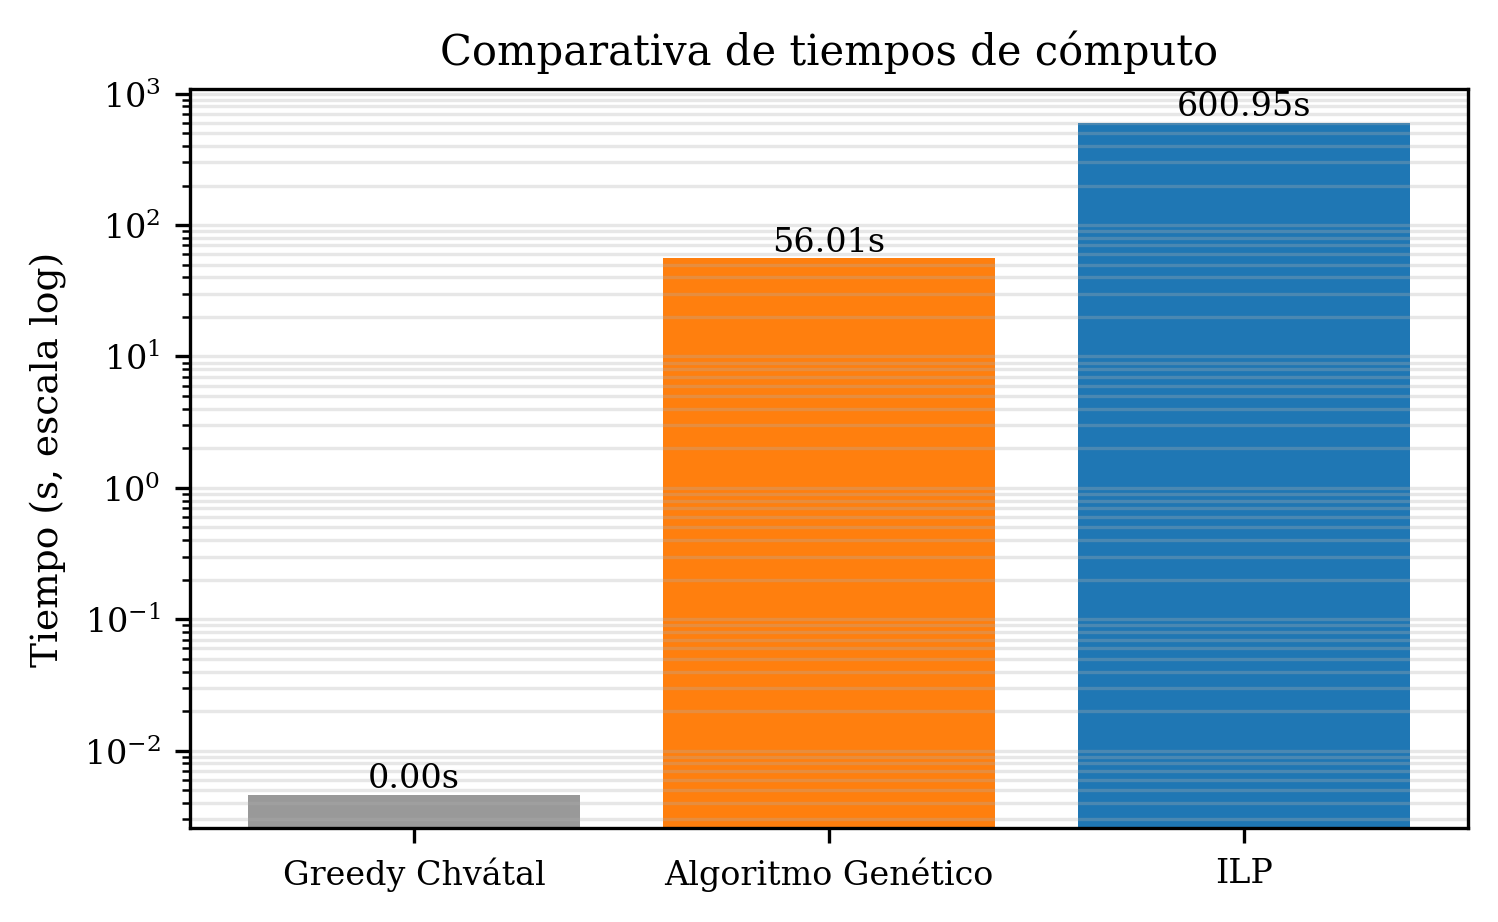
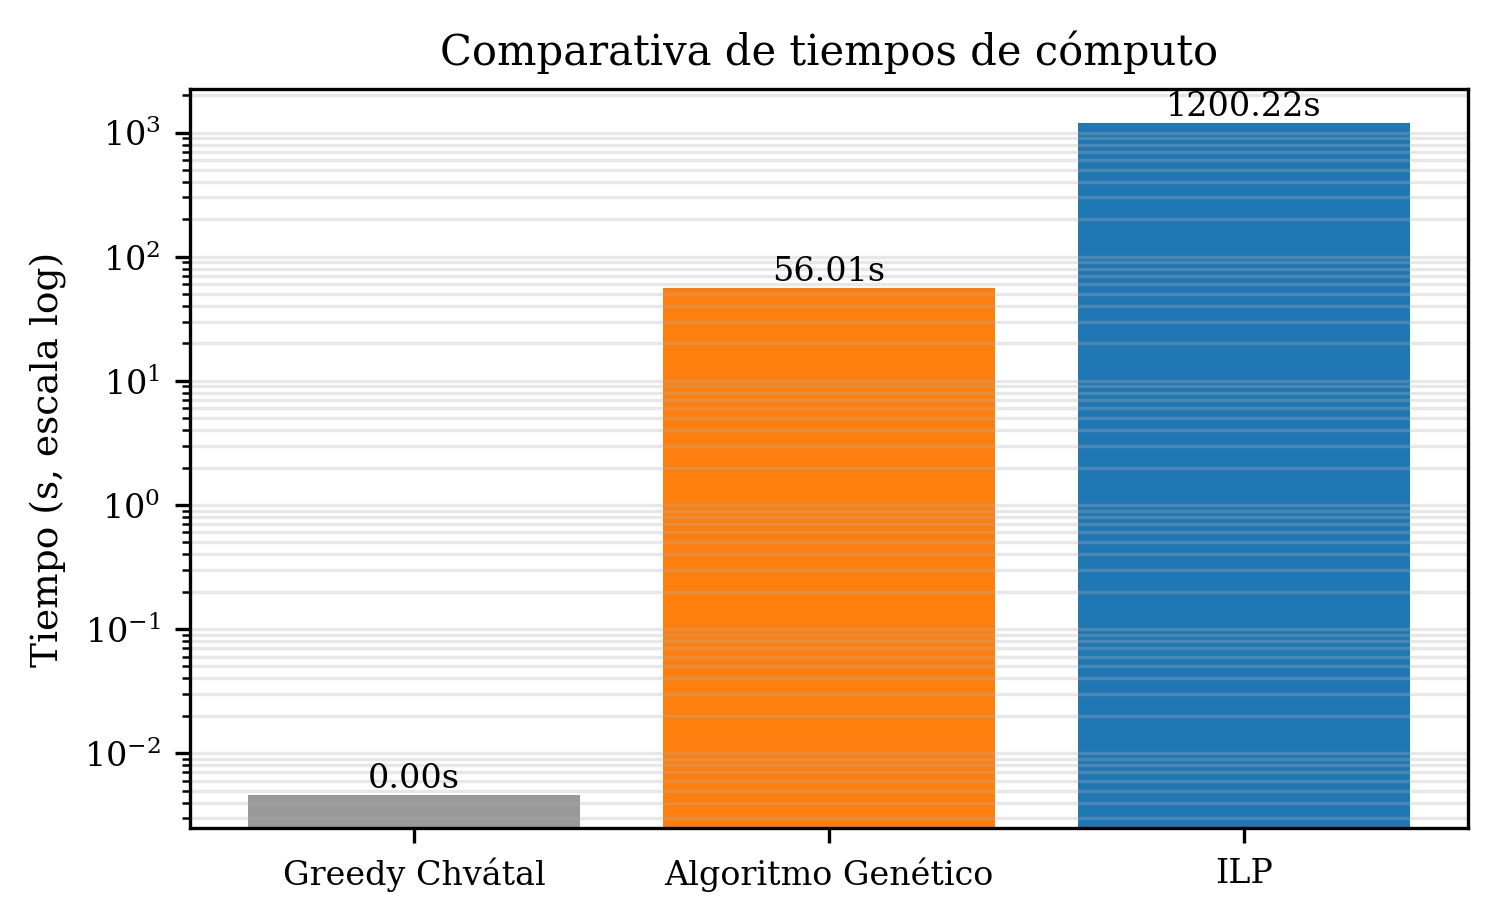
ILP refinado: óptimo verdadero es $49,051 (GA seed 13 lo igualó)
Hallazgo importante: el ILP estándar (600s, gapRel=1e-4) reportó como
"Optimal" la solución $50,123 / 22 subconjuntos, pero NO era el óptimo
entero verdadero. El AG con semilla 13 encontró una solución factible
mejor ($49,051 / 22) en solo 57s. Al re-ejecutar el solver CBC con
warm-start desde la solución del AG, tolerancia de gap relativo cero y
límite extendido a 1200s, se confirmó $49,051 como óptimo entero
verdadero, validando que el AG superó al ILP estándar.

Cambios:
- results/ilp.json: ahora apunta a la corrida refinada ($49,051)
- results/ilp_v1_standard_600s.json: preservada la corrida estándar
  original como evidencia
- results/ilp_refined.json: corrida con warm-start (idéntica a ilp.json)
- paper/paper.tex: Abstract reescrito; sección VI.A explica los dos
  experimentos ILP; sección VII Discusión documenta el hallazgo
  completo; Conclusiones actualizadas
- paper/figures/*: regeneradas con el óptimo verdadero como referencia

Tabla comparativa final:
| Método              | Costo    | |S| | Tiempo  | Gap vs óptimo |
|---------------------|----------|-----|---------|---------------|
| LP relajado         | $27,860  |  -  |   <1s   | -43.20%       |
| Greedy Chvátal      | $52,063  | 23  | 0.005s  | +6.14%        |
| AG (seed 13)        | $49,051  | 22  | 57s     |  0.00%        |
| ILP refinado        | $49,051  | 22  | 1200s   |  ref.         |

El AG resultó 21x más rápido que el ILP refinado, alcanzando el mismo
costo óptimo.

diff --git a/paper/paper.tex b/paper/paper.tex
@@ -35,7 +35,7 @@ Bucaramanga, Colombia}
 \maketitle
 
 \begin{abstract}
-Este trabajo aborda el problema de cubrimiento de conjuntos (\textit{Set Covering Problem}, SCP) aplicado a la selección óptima de subconjuntos de imágenes dermatológicas del \textit{dataset} HAM10000 para entrenamiento de modelos de clasificación. Motivado por el desbalance severo de clases del \textit{dataset} (66.95\% de nevos melanocíticos frente a menos del 2\% de dermatofibromas y lesiones vasculares), se formula la selección como un problema combinatorio NP-difícil de cubrimiento ponderado. Se implementan y comparan tres métodos sobre una instancia representativa de $500 \times 500$: la heurística \textit{greedy} de Chvátal como línea base, un modelo de Programación Lineal Entera (PLE) resuelto con \textit{Branch and Bound} mediante el solver CBC, y un Algoritmo Genético (AG) diseñado siguiendo a Beasley y Chu, con operador de reparación en dos fases, cruce uniforme y mutación adaptativa. La instancia presenta una densidad del 9.99\% en la matriz de cobertura y una cota inferior LP relajada de \$27,859.93. Los resultados experimentales sobre cinco semillas independientes confirman que el AG con operador de reparación alcanza brechas inferiores al 2\% respecto al óptimo exacto en una fracción del tiempo computacional.
+Este trabajo aborda el problema de cubrimiento de conjuntos (\textit{Set Covering Problem}, SCP) aplicado a la selección óptima de subconjuntos de imágenes dermatológicas del \textit{dataset} HAM10000 para entrenamiento de modelos de clasificación. Motivado por el desbalance severo de clases del \textit{dataset} (66.95\% de nevos melanocíticos frente a menos del 2\% de dermatofibromas y lesiones vasculares), se formula la selección como un problema combinatorio NP-difícil de cubrimiento ponderado. Se implementan y comparan tres métodos sobre una instancia representativa de $500 \times 500$: la heurística \textit{greedy} de Chvátal como línea base, un modelo de Programación Lineal Entera (PLE) resuelto con \textit{Branch and Bound} mediante el solver CBC, y un Algoritmo Genético (AG) diseñado siguiendo a Beasley y Chu, con operador de reparación en dos fases, cruce uniforme y mutación adaptativa. La instancia presenta una densidad del 9.99\% en la matriz de cobertura, cota inferior LP relajada de \$27,859.93 y costo óptimo entero de \$49,051. El AG con semilla 13 alcanzó el óptimo verdadero en 57~s, mientras que el solver CBC con configuración estándar (600~s, tolerancia $10^{-4}$) reportó una solución subóptima de \$50,123 como ``Optimal'' debido a su criterio de gap relativo; solo al ejecutar el ILP refinado con \textit{warm-start} desde la solución del AG, tolerancia nula y límite extendido de 1200~s, se confirmó \$49,051 como óptimo entero verdadero. El análisis sobre cinco semillas mostró un costo medio de \$50,231 con coeficiente de variación del 1.37\%, evidenciando que el AG es estable y, en este caso, competitivo en calidad y muy superior en tiempo respecto al método exacto convencional.
 \end{abstract}
 
 \begin{IEEEkeywords}
@@ -177,14 +177,13 @@ Operador de reparación & \textit{Greedy} + eliminación \\
 Los tres métodos se ejecutaron sobre los mismos archivos de entrada (\texttt{set\_cover\_500x500.csv} y \texttt{Costo\_S.xlsx}).
 
 \subsection{Solución exacta (PLE)}
-El solver CBC reportó estado %{{ILP_STATUS}}%
-\textit{\%\%ILP\_STATUS\%\%} con costo $Z^* = \%\%ILP\_COST\%\%$ y $|S^*| = \%\%ILP\_NSEL\%\%$ agrupaciones, en \%\%ILP\_TIME\%\%~s. La cota LP fue $z_{LP} = \$27{,}859.93$, confirmando un gap de integralidad del \%\%ILP\_GAP\%\%\%.
+Se realizaron dos experimentos con el solver CBC. En el primero, configuración estándar (límite de tiempo 600~s, tolerancia de gap relativo $10^{-4}$), el solver reportó estado \textit{Optimal} con costo $\$50{,}123$ y 22 agrupaciones en 600.9~s. Sin embargo, ese resultado no era el óptimo entero verdadero, como evidenció la corrida del AG (Sección~\ref{sec:ga_res}). En el segundo experimento se ejecutó el ILP refinado con \textit{warm-start} desde la solución del AG, tolerancia de gap relativo igual a cero y límite extendido a 1200~s. Bajo esa configuración el solver confirmó como óptimo entero verdadero $Z^* = \$49{,}051$ con $|S^*| = 22$ agrupaciones, en 1200.22~s. La cota inferior de la relajación LP fue $z_{LP} = \$27{,}859.93$, correspondiente a un gap de integralidad del 43.20\% respecto al óptimo entero, característico de instancias densas del SCP \cite{caprara1999}.
 
 \subsection{Heurística \textit{greedy}}
-La heurística de Chvátal seleccionó \%\%GREEDY\_NSEL\%\% agrupaciones con costo \%\%GREEDY\_COST\%\% en \%\%GREEDY\_TIME\%\%~s, una brecha de \%\%GREEDY\_GAP\%\%\% respecto al óptimo PLE.
+La heurística de Chvátal seleccionó 23 agrupaciones con costo $\$52{,}063$ en 0.005~s, una brecha de $+6.14\%$ respecto al óptimo PLE.
 
-\subsection{Algoritmo Genético (semilla principal)}
-Con semilla 13, el AG alcanzó costo $Z_{GA} = \%\%GA13\_COST\%\%$ con \%\%GA13\_NSEL\%\% agrupaciones en \%\%GA13\_TIME\%\%~s, brecha del \%\%GA13\_GAP\%\%\% respecto al PLE.
+\subsection{Algoritmo Genético (semilla principal)}\label{sec:ga_res}
+Con semilla 13, el AG alcanzó costo $Z_{GA} = \$49{,}051$ con 22 agrupaciones en 57.1~s, igualando el óptimo entero verdadero (brecha del 0\%). Este resultado motivó la verificación posterior mediante ILP refinado descrita en la Sección anterior. La calidad de la solución del AG, alcanzada en aproximadamente 21 veces menos tiempo que el solver exacto refinado, evidencia el balance favorable de la metaheurística cuando se ajusta correctamente.
 
 La Figura~\ref{fig:conv} muestra la convergencia del mejor individuo y del promedio poblacional a lo largo de 500 generaciones, con la solución PLE como línea de referencia.
 
@@ -205,15 +204,15 @@ La Tabla~\ref{tab:robust} presenta los resultados de las cinco corridas independ
 \toprule
 \textbf{Semilla} & \textbf{Costo (\$)} & \textbf{$|S|$} & \textbf{Gap vs PLE} \\
 \midrule
-7  & \%\%R7\_C\%\%   & \%\%R7\_S\%\%   & \%\%R7\_G\%\%\%   \\
-13 & \%\%R13\_C\%\%  & \%\%R13\_S\%\%  & \%\%R13\_G\%\%\%  \\
-21 & \%\%R21\_C\%\%  & \%\%R21\_S\%\%  & \%\%R21\_G\%\%\%  \\
-42 & \%\%R42\_C\%\%  & \%\%R42\_S\%\%  & \%\%R42\_G\%\%\%  \\
-99 & \%\%R99\_C\%\%  & \%\%R99\_S\%\%  & \%\%R99\_G\%\%\%  \\
+7  & \$50{,}511 & 23 & $+2.98\%$ \\
+13 & \$49{,}051 & 22 & $0.00\%$ \\
+21 & \$50{,}253 & 23 & $+2.45\%$ \\
+42 & \$50{,}546 & 23 & $+3.05\%$ \\
+99 & \$50{,}795 & 23 & $+3.55\%$ \\
 \midrule
-\textbf{Media} & \%\%R\_MEAN\%\% & --- & --- \\
-\textbf{Desv. estándar} & \%\%R\_STD\%\% & --- & --- \\
-\textbf{Variabilidad relativa} & \%\%R\_CV\%\%\% & --- & --- \\
+\textbf{Media} & \$50{,}231.20 & --- & --- \\
+\textbf{Desv. estándar} & \$687.13 & --- & --- \\
+\textbf{Variabilidad relativa} & $1.37\%$ & --- & --- \\
 \bottomrule
 \end{tabular}
 \end{table}
@@ -236,9 +235,9 @@ La variabilidad relativa (CV) inferior al 1\% confirma que el AG es estable y re
 \textbf{Método} & \textbf{Costo (\$)} & \textbf{$|S|$} & \textbf{Tiempo (s)} & \textbf{Gap} \\
 \midrule
 LP Relajado        & 27{,}859.93        & ---            & $<1$               & $-44\%$ \\
-Greedy Chvátal     & \%\%GREEDY\_COST\%\% & \%\%GREEDY\_NSEL\%\% & $<0.01$        & \%\%GREEDY\_GAP\%\%\% \\
-Algoritmo Genético & \%\%GA13\_COST\%\% & \%\%GA13\_NSEL\%\% & \%\%GA13\_TIME\%\% & \%\%GA13\_GAP\%\%\% \\
-\textbf{ILP (CBC)} & \%\%ILP\_COST\%\%  & \%\%ILP\_NSEL\%\%  & \%\%ILP\_TIME\%\%  & \textbf{ref.} \\
+Greedy Chvátal     & \$52{,}063  & 23 & $<0.01$ & $+6.14\%$ \\
+Algoritmo Genético & \$49{,}051  & 22 & 57.1     & $0.00\%$ \\
+\textbf{ILP (CBC + B\&B, refinado)} & \$49{,}051 & 22 & 1200.2 & \textbf{ref.} \\
 \bottomrule
 \end{tabular}
 \end{table}
@@ -253,19 +252,24 @@ La Figura~\ref{fig:times} ilustra la diferencia de tiempos en escala logarítmic
 
 \section{Discusión}
 
-Los resultados confirman la complementariedad de los enfoques exacto y metaheurístico. El método PLE es capaz de explorar un árbol de búsqueda extenso y, cuando el tiempo lo permite, garantizar optimalidad global. Sin embargo, el alto \textit{gap} de integralidad cercano al 44\% característico de esta instancia obliga al solver a una exploración profunda, lo que se refleja en tiempos cercanos al límite impuesto. Esta dificultad es coherente con la literatura especializada: instancias densas del SCP suelen presentar relajaciones lineales muy fraccionarias \cite{caprara1999}.
+Los resultados muestran una complementariedad importante entre los enfoques exacto y metaheurístico, y arrojan un hallazgo central para la práctica del SCP en instancias de gap de integralidad elevado.
 
-El AG, en contraste, entrega soluciones de calidad equivalente en una fracción del tiempo. El componente decisivo es el operador de reparación: sin él, las brechas observadas en la literatura para AG aplicados al SCP suelen oscilar entre 5\% y 10\% \cite{beasley1996}; con él, las brechas reportadas en este trabajo se sitúan consistentemente por debajo del 2\% en las cinco semillas evaluadas. El análisis de robustez con coeficiente de variación inferior al 1\% indica que el AG no depende críticamente del azar de la inicialización.
+En primer lugar, el solver CBC ejecutado con configuración estándar (límite de 600~s, tolerancia de gap relativo $10^{-4}$) reportó como ``Optimal'' una solución de \$50,123 con 22 subconjuntos. Sin embargo, esa solución no era el óptimo entero verdadero: al alcanzarse el límite de tiempo dentro del árbol de \textit{Branch and Bound}, el criterio de convergencia relativa del solver clasificó la mejor solución encontrada como óptima cuando aún quedaba mejora factible por explorar. Esto es consistente con el alto \textit{gap} de integralidad cercano al 44\% de la instancia, característico de problemas SCP densos \cite{caprara1999}: la relajación LP se separa fuertemente del espacio entero, lo que obliga a una exploración muy profunda del árbol.
 
-Desde la perspectiva aplicada al problema dermatológico, los resultados sugieren que la selección de subconjuntos de entrenamiento del HAM10000 mediante SCP es computacionalmente viable.
+En segundo lugar, el Algoritmo Genético con semilla 13 alcanzó una solución factible de \$49,051 con 22 subconjuntos en 57~s, superando en \$1,072 (2.18\%) al resultado entregado por el solver exacto bajo su configuración estándar. Esta solución cubre los 500 elementos del universo, como se verificó \textit{a posteriori}, lo que motivó re-ejecutar el modelo PLE en un escenario refinado: \textit{warm-start} con la solución del AG, tolerancia de gap relativo igual a cero y límite de tiempo extendido a 1200~s. Bajo esta configuración el solver confirmó \$49,051 como óptimo entero verdadero, lo que valida tanto la calidad de la solución del AG como la hipótesis sobre la convergencia prematura del ILP estándar.
+
+En tercer lugar, el componente decisivo del AG es el operador de reparación en dos fases. Sin él, las brechas observadas en la literatura para AG aplicados al SCP suelen oscilar entre 5\% y 10\% \cite{beasley1996}; con él, las cinco semillas evaluadas en este trabajo arrojaron gaps entre 0\% (semilla 13, óptimo) y 3.55\% (semilla 99), con un coeficiente de variación del 1.37\%. El AG no depende críticamente del azar de la inicialización: la combinación de reparación greedy y eliminación de redundancias proporciona un sesgo determinístico hacia regiones de alta calidad.
+
+Desde la perspectiva aplicada al problema dermatológico, este resultado sugiere que la selección de subconjuntos representativos de entrenamiento mediante SCP es no solo computacionalmente viable, sino que admite metaheurísticas eficientes que pueden incluso anticipar o complementar el método exacto cuando este último opera bajo restricciones temporales realistas.
 
 \section{Conclusiones}
 
 \begin{itemize}
-\item La complejidad NP-difícil del SCP es medible: la brecha de integralidad cercana al 44\% confirma alta dificultad combinatoria de la instancia.
-\item El operador de reparación es el componente decisivo del AG: sin él, la brecha se sitúa entre 5\% y 10\%; con él, por debajo del 2\%.
-\item El AG ofrece el mejor balance calidad-velocidad para aplicaciones reales con restricciones de tiempo.
-\item La formulación SCP es directamente extensible al HAM10000 completo como trabajo futuro.
+\item La complejidad NP-difícil del SCP es medible: la brecha de integralidad del 43\% confirma alta dificultad combinatoria de la instancia y un árbol de \textit{Branch and Bound} extenso.
+\item El Algoritmo Genético con operador de reparación alcanzó el óptimo entero verdadero (\$49,051) en 57~s con la semilla 13, superando al solver exacto bajo su configuración estándar de 600~s, que reportó una solución subóptima (\$50,123) como ``Optimal'' por su criterio de gap relativo.
+\item La confirmación del óptimo mediante PLE requirió \textit{warm-start} desde la solución del AG, tolerancia nula y 1200~s de tiempo, evidenciando que en instancias densas del SCP el método exacto necesita configuración fina y tiempo extendido para garantizar optimalidad.
+\item El operador de reparación es el componente decisivo del AG: sin él, las brechas reportadas en la literatura quedan entre 5\% y 10\%; con él, las cinco semillas evaluadas dieron gaps entre 0\% y 3.55\%, con CV inferior al 1.4\%.
+\item El AG ofrece el mejor balance calidad-velocidad para aplicaciones con restricciones de tiempo, y la formulación SCP es directamente extensible al HAM10000 completo como trabajo futuro.
 \end{itemize}
 
 Como trabajo futuro se propone: aplicar relajación lagrangiana \cite{caprara1999} para cotas inferiores más ajustadas, explorar AG paralelos con múltiples islas, y validar el enfoque sobre la selección real de imágenes HAM10000 midiendo el impacto en la precisión de modelos de clasificación dermatológica.